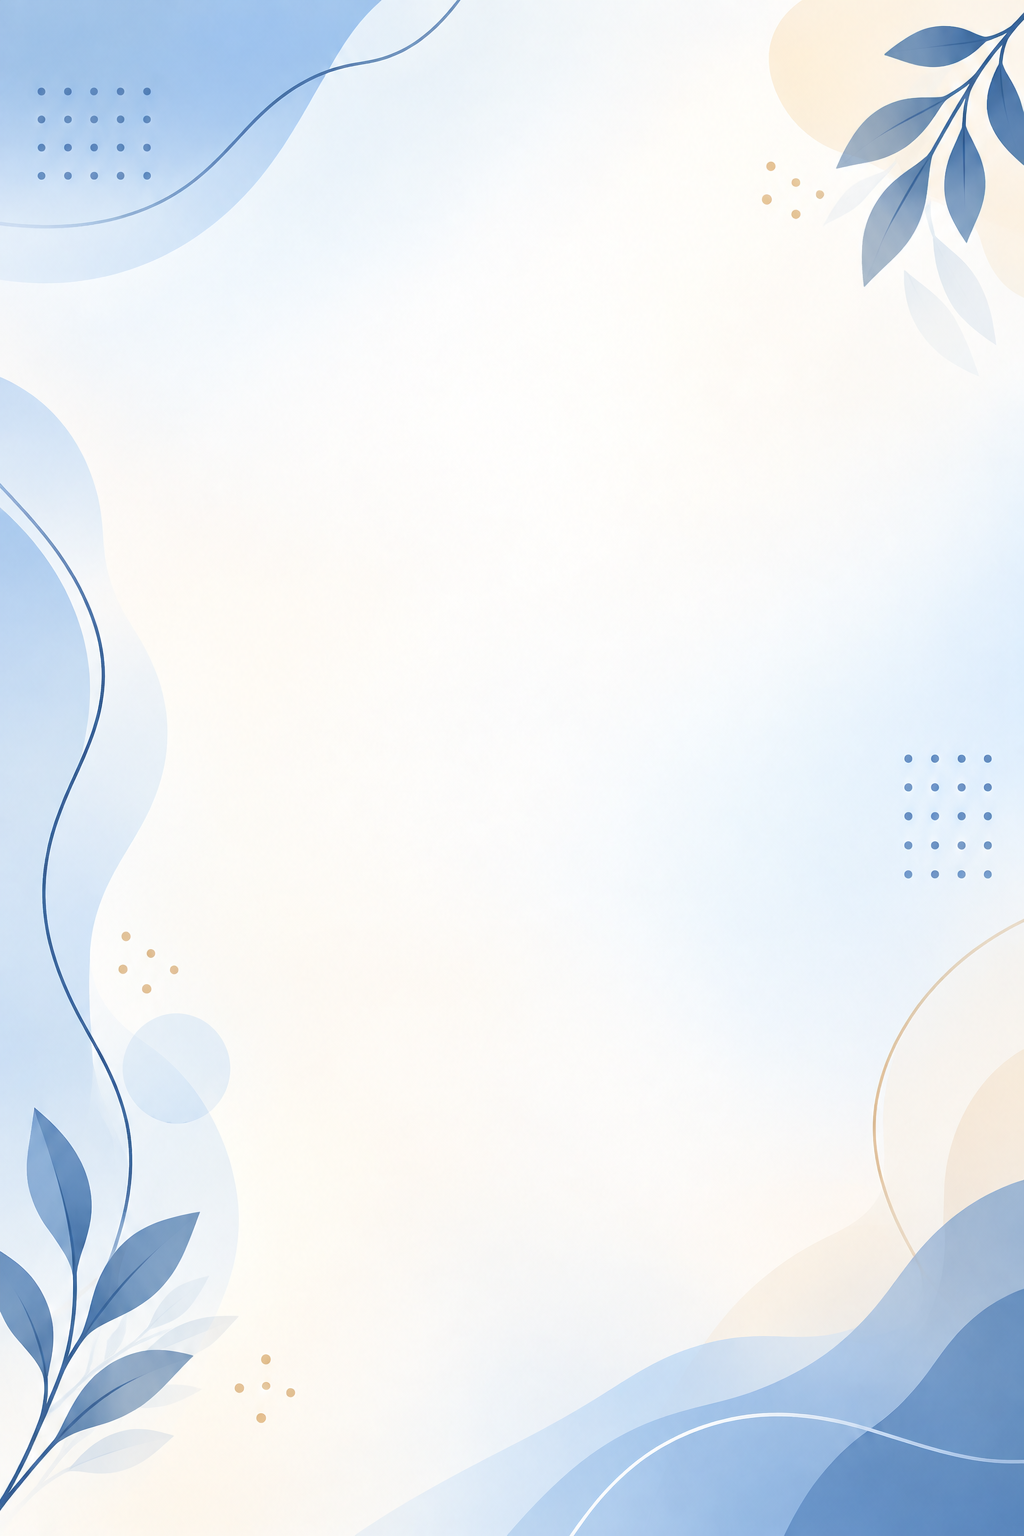
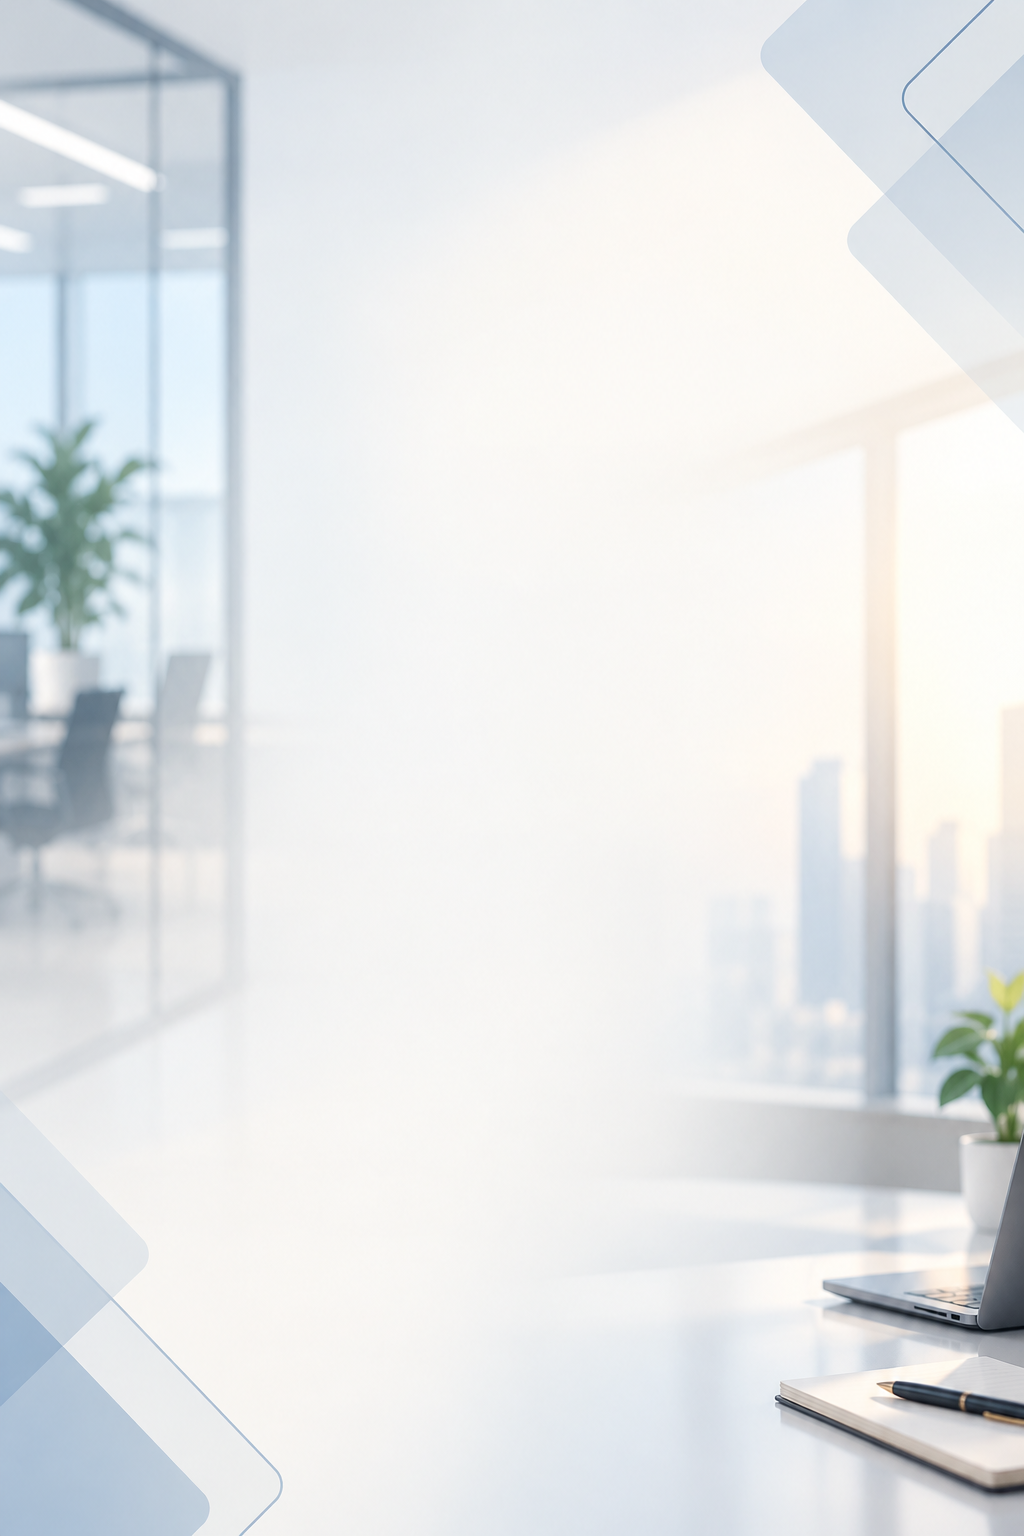
Make the site hold up on phones and tablets; new careers form artwork
Audited every page at 390, 768 and 1024 wide in headless Chrome —
horizontal overflow, text under 11px and tap targets — and read the
screenshots. Nothing scrolled sideways; the problems were layout and
reach.

Phones:
- The home team tabs ran the second label off the screen. They sit in
  two equal columns now, labels wrapping, and each row puts the
  designation under the name.
- Practice and industry tab strips scrolled sideways with nothing to say
  so; the last tab was simply cut off. The right edge fades, tabs snap,
  and a tapped tab scrolls fully into view.
- The About roster was one card per row, some 3,000px of cards. Two a
  row, with a smaller avatar below sm.
- The footer stacked every link column; it is two columns until lg.
- The hero slide controls were a 2px bar to tap; they are 44px tall.
  Consent checkboxes go from 16 to 20px, and footer, office and maps
  links get vertical padding — all were under 24px and tightly packed.
- Office labels and the careers triad move off 10.4px text.
- Careers drops its last two py-20 bands and the 12-unit gap between a
  heading and its prose once they stack.

Tablets:
- The home article cards went straight from one column to three, so at
  768 each was a full-width card with a 400px photograph. Two a row now.
- The hero was sized to the viewport minus the header, which on an iPad
  Pro in portrait is over 1,200px of hero. Capped at 46rem.

Adds the replacement careers form background.

diff --git a/apps/web/src/components/site-footer.tsx b/apps/web/src/components/site-footer.tsx
@@ -35,17 +35,17 @@ export function SiteFooter() {
             <p className="mt-6 max-w-sm text-sm leading-relaxed">
               {firm.descriptor}
             </p>
-            <div className="mt-6 flex flex-col gap-2 text-sm">
+            <div className="mt-5 flex flex-col text-sm">
               <a
                 href={firm.phoneHref}
-                className="flex items-center gap-2.5 transition hover:text-gold-bright"
+                className="flex items-center gap-2.5 py-1 transition hover:text-gold-bright"
               >
                 <FooterIcon path={icons.phone} />
                 {firm.phone}
               </a>
               <a
                 href={firm.emailHref}
-                className="flex items-center gap-2.5 transition hover:text-gold-bright"
+                className="flex items-center gap-2.5 py-1 transition hover:text-gold-bright"
               >
                 <FooterIcon path={icons.mail} />
                 {firm.email}
@@ -67,16 +67,16 @@ export function SiteFooter() {
             )}
           </div>
 
-          <div className="grid gap-10 sm:grid-cols-2 lg:grid-cols-4">
+          <div className="grid grid-cols-2 gap-x-6 gap-y-10 lg:grid-cols-4">
             {footerNav.map((column) => (
               <div key={column.heading}>
                 <h2 className="eyebrow text-gold-bright/80">{column.heading}</h2>
-                <ul className="mt-4 space-y-2.5">
+                <ul className="mt-3 space-y-0.5">
                   {column.links.map((link) => (
                     <li key={link.href}>
                       <Link
                         href={link.href}
-                        className="text-sm transition hover:text-white"
+                        className="inline-block py-1.5 text-sm transition hover:text-white"
                       >
                         {link.label}
                       </Link>
@@ -96,20 +96,20 @@ export function SiteFooter() {
             <span aria-hidden="true" className="h-px w-8 bg-gold/60" />
             {firm.signOff}
           </p>
-          <div className="flex flex-wrap gap-x-5 gap-y-2">
-            <Link href="/disclaimer" className="transition hover:text-white">
+          <div className="flex flex-wrap gap-x-5">
+            <Link href="/disclaimer" className="inline-block py-1.5 transition hover:text-white">
               Disclaimer
             </Link>
-            <Link href="/privacy" className="transition hover:text-white">
+            <Link href="/privacy" className="inline-block py-1.5 transition hover:text-white">
               Privacy Policy
             </Link>
-            <Link href="/cookies" className="transition hover:text-white">
+            <Link href="/cookies" className="inline-block py-1.5 transition hover:text-white">
               Cookie Policy
             </Link>
-            <Link href="/terms" className="transition hover:text-white">
+            <Link href="/terms" className="inline-block py-1.5 transition hover:text-white">
               Terms of Use
             </Link>
-            <Link href="/sitemap.xml" className="transition hover:text-white">
+            <Link href="/sitemap.xml" className="inline-block py-1.5 transition hover:text-white">
               Sitemap
             </Link>
           </div>

diff --git a/apps/web/src/components/team-tabs.tsx b/apps/web/src/components/team-tabs.tsx
@@ -41,7 +41,7 @@ export function TeamTabs({ groups }: { groups: TeamGroup[] }) {
         role="tablist"
         aria-label="Team"
         onKeyDown={onKeyDown}
-        className="flex gap-2 overflow-x-auto border-b border-line [scrollbar-width:none] [&::-webkit-scrollbar]:hidden"
+        className="grid grid-cols-2 border-b border-line sm:flex sm:gap-8"
       >
         {groups.map((group) => {
           const isActive = group.id === active;
@@ -56,11 +56,11 @@ export function TeamTabs({ groups }: { groups: TeamGroup[] }) {
               aria-controls={`team-panel-${group.id}`}
               tabIndex={isActive ? 0 : -1}
               onClick={() => setActive(group.id)}
-              className={`-mb-px shrink-0 border-b-2 px-1 pb-3 text-sm font-semibold whitespace-nowrap transition ${
+              className={`-mb-px border-b-2 px-1 pb-3 text-left text-sm font-semibold leading-snug transition sm:shrink-0 sm:whitespace-nowrap ${
                 isActive
                   ? "border-gold text-ink"
                   : "border-transparent text-slate hover:text-ink"
-              } ${group.id === groups[0]?.id ? "" : "ml-6"}`}
+              }`}
             >
               {group.label}
             </button>
@@ -84,13 +84,17 @@ export function TeamTabs({ groups }: { groups: TeamGroup[] }) {
                 <li key={person.slug}>
                   <Link
                     href={`/about#${person.slug}`}
-                    className="group flex items-center gap-4 border-b border-line py-3 transition hover:border-gold/50"
+                    className="group flex items-center gap-3 border-b border-line py-3 transition hover:border-gold/50 sm:gap-4"
                   >
-                    <span className="min-w-0 flex-1 font-serif text-sm font-semibold text-ink transition group-hover:text-gold-deep">
-                      {person.name}
-                    </span>
-                    <span className="shrink-0 text-xs text-gold-deep">
-                      {person.designation}
+                    {/* Designation sits under the name on a phone, beside it
+                        from sm up. */}
+                    <span className="flex min-w-0 flex-1 flex-col sm:flex-row sm:items-center sm:gap-4">
+                      <span className="min-w-0 flex-1 font-serif text-sm font-semibold text-ink transition group-hover:text-gold-deep">
+                        {person.name}
+                      </span>
+                      <span className="text-xs text-gold-deep sm:shrink-0">
+                        {person.designation}
+                      </span>
                     </span>
                     <svg
                       viewBox="0 0 16 16"

diff --git a/apps/web/src/components/tabs.tsx b/apps/web/src/components/tabs.tsx
@@ -63,6 +63,9 @@ export function Tabs({ tabs }: { tabs: TabDefinition[] }) {
 
   function selectTab(id: string) {
     setActive(id);
+    document
+      .getElementById(`tab-${id}`)
+      ?.scrollIntoView({ behavior: "smooth", block: "nearest", inline: "nearest" });
     // replaceState rather than a hash assignment: we do not want the browser
     // to scroll the panel into view on every tab click.
     window.history.replaceState(null, "", `#${id}`);
@@ -93,12 +96,17 @@ export function Tabs({ tabs }: { tabs: TabDefinition[] }) {
     <div>
       {/* Sticky tab strip. Sits below the sticky header. */}
       <div className="sticky top-[4.5rem] z-30 -mx-6 border-b border-line bg-paper/95 px-6 backdrop-blur lg:top-[6.5rem]">
+        {/* More tabs off to the right — a phone-width hint that the strip scrolls. */}
+        <span
+          aria-hidden="true"
+          className="pointer-events-none absolute inset-y-0 right-0 z-10 w-12 bg-gradient-to-l from-paper to-transparent sm:hidden"
+        />
         <div
           ref={tablistRef}
           role="tablist"
           aria-label="Section"
           onKeyDown={onKeyDown}
-          className="mx-auto flex max-w-5xl gap-1 overflow-x-auto [scrollbar-width:none] [&::-webkit-scrollbar]:hidden"
+          className="mx-auto flex max-w-5xl snap-x gap-1 overflow-x-auto pr-8 [scrollbar-width:none] sm:pr-0 [&::-webkit-scrollbar]:hidden"
         >
           {tabs.map((tab) => {
             const isActive = tab.id === active;
@@ -113,7 +121,7 @@ export function Tabs({ tabs }: { tabs: TabDefinition[] }) {
                 aria-controls={`panel-${tab.id}`}
                 tabIndex={isActive ? 0 : -1}
                 onClick={() => selectTab(tab.id)}
-                className={`shrink-0 border-b-2 px-4 py-4 text-sm font-medium whitespace-nowrap transition ${
+                className={`shrink-0 snap-start border-b-2 px-4 py-4 text-sm font-medium whitespace-nowrap transition ${
                   isActive
                     ? "border-gold text-gold-deep"
                     : "border-transparent text-slate hover:border-line-strong hover:text-ink"

diff --git a/apps/web/src/components/person-card.tsx b/apps/web/src/components/person-card.tsx
@@ -50,15 +50,15 @@ export function PersonCard({
           "--accent-text": accent.text,
         } as CSSProperties
       }
-      className="group relative flex h-full flex-col items-center overflow-hidden rounded-2xl border border-line bg-[linear-gradient(to_bottom,var(--accent-wash)_0%,var(--color-paper)_55%)] px-5 pb-7 pt-7 text-center shadow-sm shadow-ink/[0.03] transition duration-300 hover:-translate-y-1 hover:shadow-lg hover:shadow-ink/10"
+      className="group relative flex h-full flex-col items-center overflow-hidden rounded-2xl border border-line bg-[linear-gradient(to_bottom,var(--accent-wash)_0%,var(--color-paper)_55%)] px-3 pb-6 pt-5 text-center sm:px-5 sm:pb-7 sm:pt-7 shadow-sm shadow-ink/[0.03] transition duration-300 hover:-translate-y-1 hover:shadow-lg hover:shadow-ink/10"
     >
-      <div className="relative h-24 w-24 shrink-0 overflow-hidden rounded-full bg-[var(--accent-soft)] ring-4 ring-paper transition duration-300 group-hover:scale-105">
+      <div className="relative h-16 w-16 shrink-0 overflow-hidden rounded-full sm:h-24 sm:w-24 bg-[var(--accent-soft)] ring-4 ring-paper transition duration-300 group-hover:scale-105">
         {photo ? (
           <Image
             src={photo}
             alt={person.name}
             fill
-            sizes="96px"
+            sizes="(min-width: 640px) 96px, 64px"
             className="object-cover"
           />
         ) : (
@@ -75,10 +75,10 @@ export function PersonCard({
         )}
       </div>
 
-      <h3 className="mt-5 font-sans text-[0.95rem] font-semibold leading-snug text-ink">
+      <h3 className="mt-3 font-sans text-sm font-semibold leading-snug text-ink sm:mt-5 sm:text-[0.95rem]">
         {person.name}
       </h3>
-      <p className="mt-1 font-sans text-sm font-medium text-[var(--accent-text)]">
+      <p className="mt-1 font-sans text-xs font-medium text-[var(--accent-text)] sm:text-sm">
         {person.designation}
       </p>
       {person.qualification && (

diff --git a/apps/web/src/app/page.tsx b/apps/web/src/app/page.tsx
@@ -172,7 +172,7 @@ export default function Home() {
             </Link>
           </div>
 
-          <ul className="mt-10 grid gap-5 lg:grid-cols-3">
+          <ul className="mt-10 grid gap-5 sm:grid-cols-2 lg:grid-cols-3">
             {latestInsights.map((insight) => (
               <li key={insight.slug}>
                 <InsightCard insight={insight} />
@@ -250,7 +250,7 @@ export default function Home() {
                   <h3 className="mt-4 font-serif text-lg font-semibold text-ink">
                     {office.city}
                   </h3>
-                  <p className="mt-1 text-[0.65rem] uppercase tracking-[0.14em] text-gold-deep">
+                  <p className="mt-1 text-[0.7rem] uppercase tracking-[0.14em] text-gold-deep">
                     {office.label}
                   </p>
                   <address className="mt-3 space-y-0.5 text-[0.8rem] not-italic leading-relaxed text-ink-soft">
@@ -312,7 +312,7 @@ export default function Home() {
 
               {/* The triad the firm's own photography carries, bulleted the
                   way the practice lists are. */}
-              <ul className="mt-10 space-y-2.5 border-t border-white/15 pt-6 text-[0.65rem] font-semibold uppercase tracking-[0.22em] text-white/70">
+              <ul className="mt-10 space-y-2.5 border-t border-white/15 pt-6 text-[0.7rem] font-semibold uppercase tracking-[0.22em] text-white/70">
                 {["People", "Ideas", "Impact"].map((word) => (
                   <li key={word} className="flex items-center gap-2.5">
                     <span

diff --git a/apps/web/src/app/about/page.tsx b/apps/web/src/app/about/page.tsx
@@ -147,7 +147,7 @@ export default function AboutPage() {
                 {roster.heading}
               </h3>
 
-              <ul className="mt-6 grid gap-4 sm:grid-cols-2 sm:gap-5 lg:grid-cols-3">
+              <ul className="mt-6 grid grid-cols-2 gap-3 sm:gap-5 lg:grid-cols-3">
                 {roster.members.map((person, index) => (
                   <li key={person.slug} id={person.slug} className="scroll-mt-32">
                     <PersonCard person={person} index={index} />
@@ -305,7 +305,7 @@ export default function AboutPage() {
                   <h3 className="font-serif text-base font-semibold text-ink">
                     {office.city}
                   </h3>
-                  <p className="text-[0.65rem] uppercase tracking-[0.14em] text-gold-deep">
+                  <p className="text-[0.7rem] uppercase tracking-[0.14em] text-gold-deep">
                     {office.label}
                   </p>
                   <address className="mt-2.5 space-y-0.5 text-[0.8rem] not-italic leading-relaxed text-ink-soft">
@@ -315,7 +315,7 @@ export default function AboutPage() {
                   </address>
                   <a
                     href={office.phoneHref}
-                    className="mt-3 inline-block text-[0.8rem] text-ink-soft transition hover:text-gold-deep"
+                    className="mt-2 inline-block py-1 text-[0.8rem] text-ink-soft transition hover:text-gold-deep"
                   >
                     {office.phone}
                   </a>

diff --git a/apps/web/src/components/hero.tsx b/apps/web/src/components/hero.tsx
@@ -99,7 +99,7 @@ export function Hero({ images }: { images: (string | null)[] }) {
         <div className="hero-scrim absolute inset-0" />
       </div>
 
-      <div className="container-page relative flex flex-col justify-center py-16 sm:py-20 lg:min-h-[calc(100svh-7.5rem)] lg:py-16">
+      <div className="container-page relative flex flex-col justify-center py-16 sm:py-20 lg:min-h-[min(calc(100svh-7.5rem),46rem)] lg:py-16">
         <div className="max-w-3xl">
           {/* Slides are stacked so the container height does not jump between
               headings of different lengths. */}
@@ -158,7 +158,7 @@ export function Hero({ images }: { images: (string | null)[] }) {
                   onClick={() => setIndex(slideIndex)}
                   aria-label={`Show slide ${slideIndex + 1}: ${slide.eyebrow}`}
                   aria-current={isActive}
-                  className="group py-2"
+                  className="group flex h-11 items-center"
                 >
                   <span
                     aria-hidden="true"

diff --git a/apps/web/src/app/contact/page.tsx b/apps/web/src/app/contact/page.tsx
@@ -116,7 +116,7 @@ export default function ContactPage() {
                     <div className="mt-2.5 flex flex-wrap items-center gap-x-5 gap-y-1 text-sm">
                       <a
                         href={office.phoneHref}
-                        className="text-ink-soft transition hover:text-gold-deep"
+                        className="inline-block py-1 text-ink-soft transition hover:text-gold-deep"
                       >
                         {office.phone}
                       </a>
@@ -126,7 +126,7 @@ export default function ContactPage() {
                         )}`}
                         target="_blank"
                         rel="noopener noreferrer"
-                        className="text-xs font-semibold uppercase tracking-[0.14em] text-gold-deep"
+                        className="inline-block py-1.5 text-xs font-semibold uppercase tracking-[0.14em] text-gold-deep"
                       >
                         Open in maps
                       </a>

diff --git a/apps/web/src/app/careers/page.tsx b/apps/web/src/app/careers/page.tsx
@@ -57,8 +57,8 @@ export default function CareersPage() {
       />
 
       {/* Culture */}
-      <section className="container-page py-20">
-        <div className="grid gap-12 lg:grid-cols-[1fr_1.15fr] lg:gap-20">
+      <section className="container-page py-12 sm:py-14">
+        <div className="grid gap-6 lg:grid-cols-[0.85fr_1.5fr] lg:gap-12">
           <SectionHeading
             eyebrow="Working here"
             title="What the work is actually like"
@@ -89,7 +89,7 @@ export default function CareersPage() {
 
       {/* Roles */}
       <section className="border-y border-line bg-paper-warm">
-        <div className="container-page py-20">
+        <div className="container-page py-12 sm:py-14">
           <SectionHeading
             eyebrow="Open roles"
             title="Current vacancies"

diff --git a/apps/web/src/components/practices-index.tsx b/apps/web/src/components/practices-index.tsx
@@ -46,12 +46,12 @@ export function PracticesIndex() {
             </Link>
           </h3>
 
-          <ul className="mt-4 space-y-2.5">
+          <ul className="mt-3 space-y-0.5">
             {area.services.map((service) => (
               <li key={service.title}>
                 <Link
                   href={serviceHref(area, service)}
-                  className="group flex gap-2.5 text-sm leading-snug text-ink-soft transition hover:text-gold-deep"
+                  className="group flex gap-2.5 py-1 text-sm leading-snug text-ink-soft transition hover:text-gold-deep"
                   /* The dense label reads well in a list, but the full title is
                      what actually describes the work. */
                   title={service.title}

diff --git a/apps/web/src/components/career-form.tsx b/apps/web/src/components/career-form.tsx
@@ -174,7 +174,7 @@ export function CareerForm({ roles }: { roles: string[] }) {
           type="checkbox"
           name="consent"
           required
-          className="mt-0.5 h-4 w-4 shrink-0 accent-[var(--color-gold)]"
+          className="mt-0.5 h-5 w-5 shrink-0 accent-[var(--color-gold)]"
         />
         <span className="text-sm leading-relaxed text-ink-soft">
           I consent to ADOORA Legal Services processing the personal data in

diff --git a/apps/web/src/components/enquiry-form.tsx b/apps/web/src/components/enquiry-form.tsx
@@ -191,7 +191,7 @@ export function EnquiryForm() {
           type="checkbox"
           name="consent"
           required
-          className="mt-0.5 h-4 w-4 shrink-0 accent-[var(--color-gold)]"
+          className="mt-0.5 h-5 w-5 shrink-0 accent-[var(--color-gold)]"
         />
         <span className="text-sm leading-relaxed text-white/80">
           I consent to ADOORA Legal Services processing the personal data in
